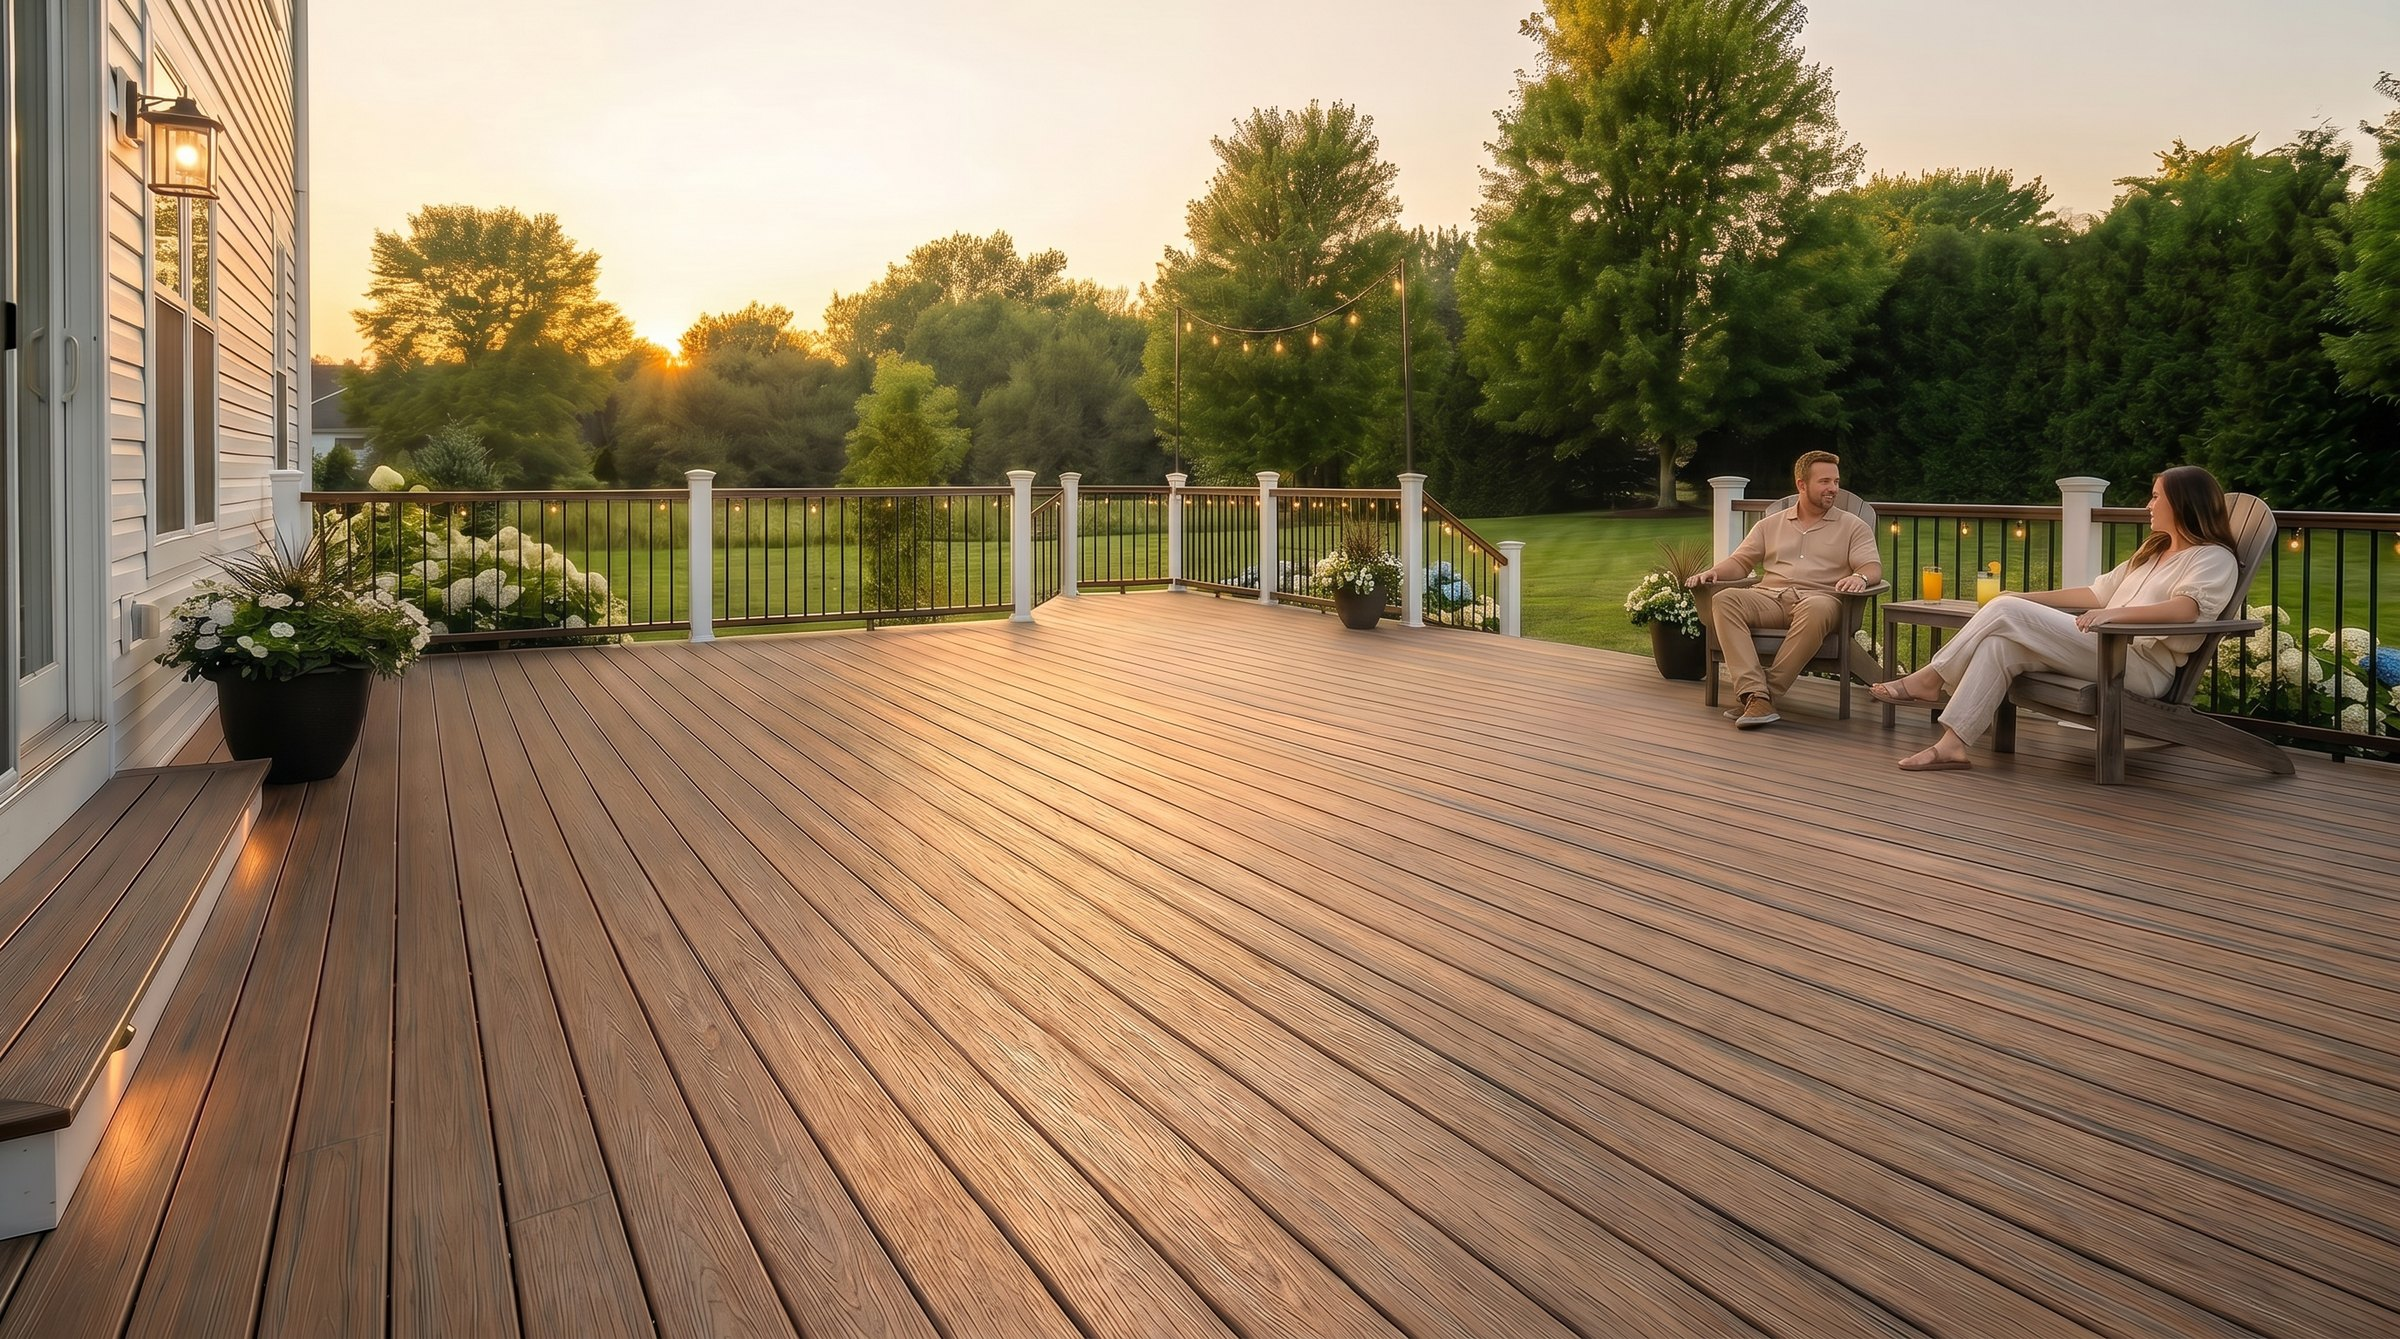
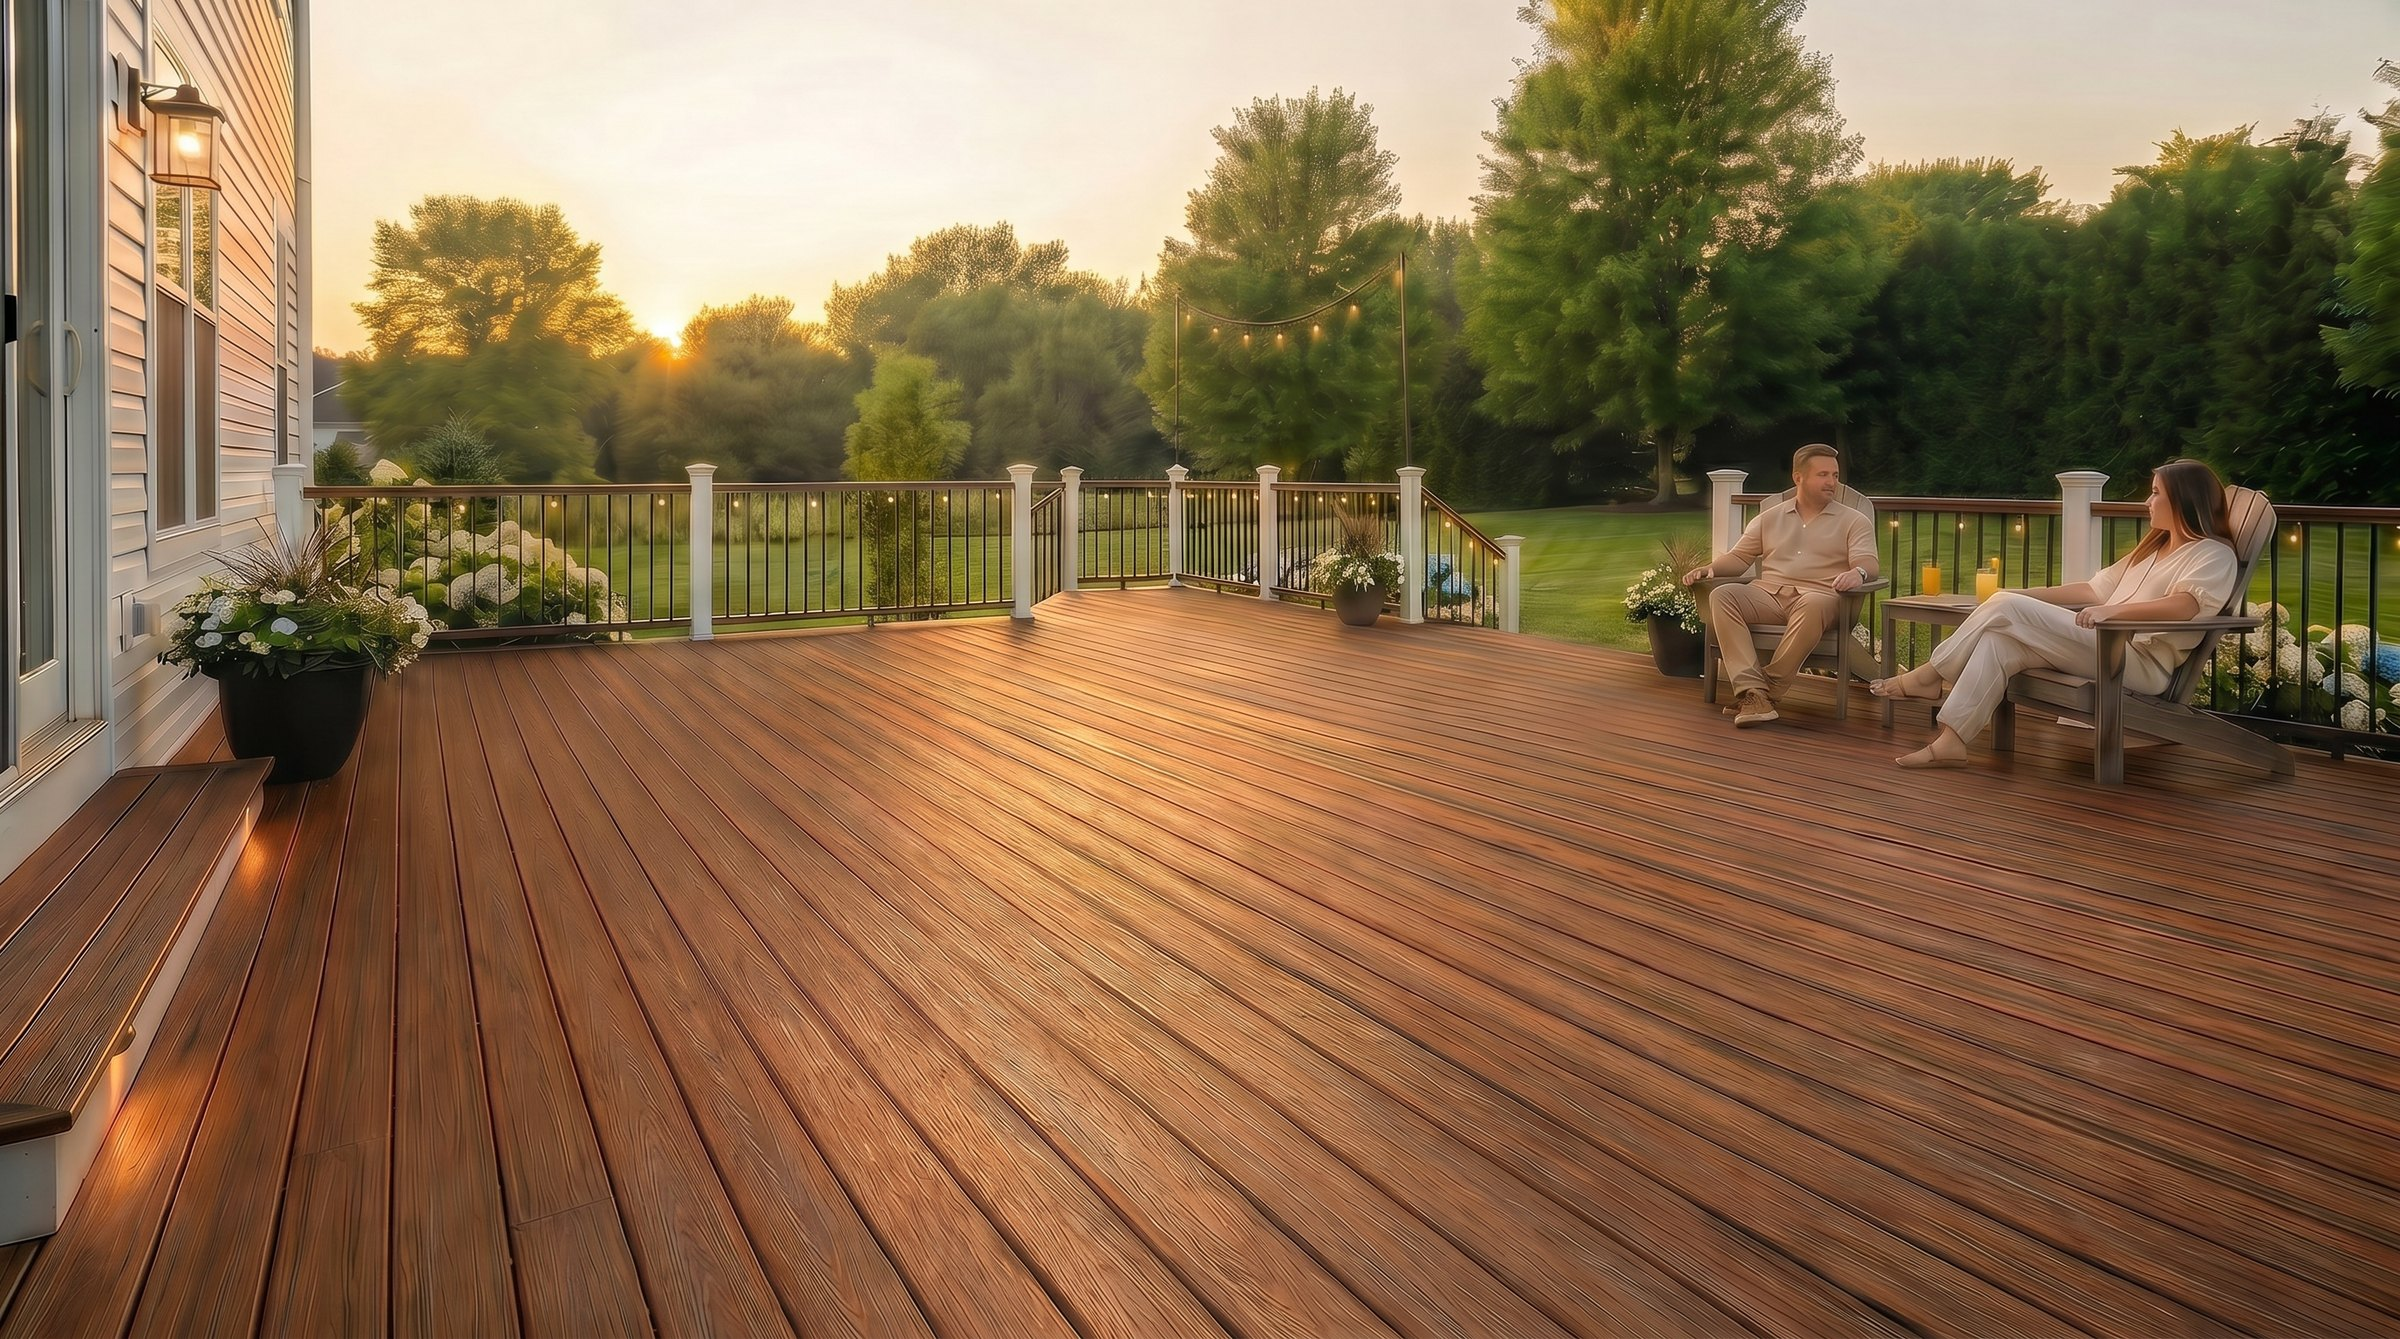
Recolor TrueGrain hero boards to true Tropical Walnut
Prior hero deck read as a light tan (closest to Aged Oak). Recolored the
board flooring to the rich reddish-brown Tropical Walnut tone matching
the tropical_walnut swatch, keeping straight board lines, composition,
people, railing, and golden-hour setting. Alt text updated to name the
Tropical Walnut color.

diff --git a/index.html b/index.html
@@ -242,7 +242,7 @@
               <source media="(max-width: 700px)" srcset="./images/truegrain_embered_taupe_hero.jpg" />
               <img fetchpriority="high"
                 src="./images/truegrain_embered_taupe_hero.jpg"
-                alt="Expansive TrueGrain Deck in rich hardwood-look PVC boards with white railing at golden hour, backyard beyond"
+                alt="Expansive TrueGrain Deck in Tropical Walnut PVC boards with white railing at golden hour, backyard beyond"
                 decoding="async"
                 width="2400"
                 height="1339"